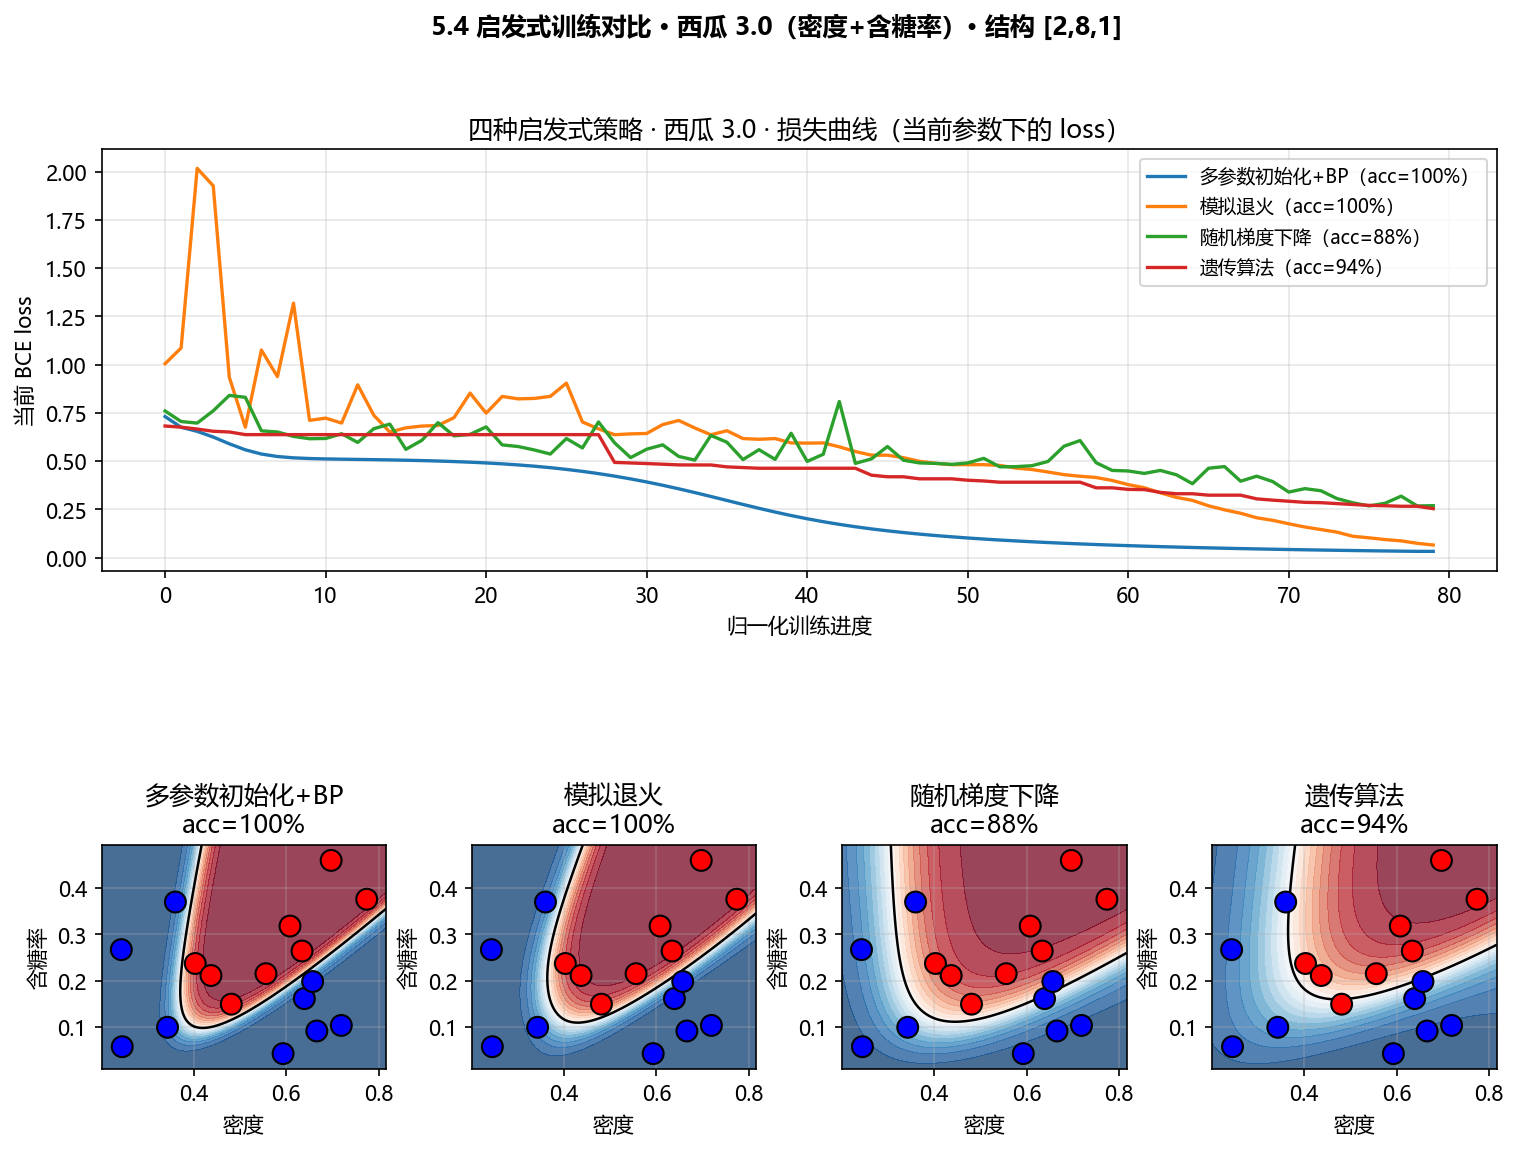
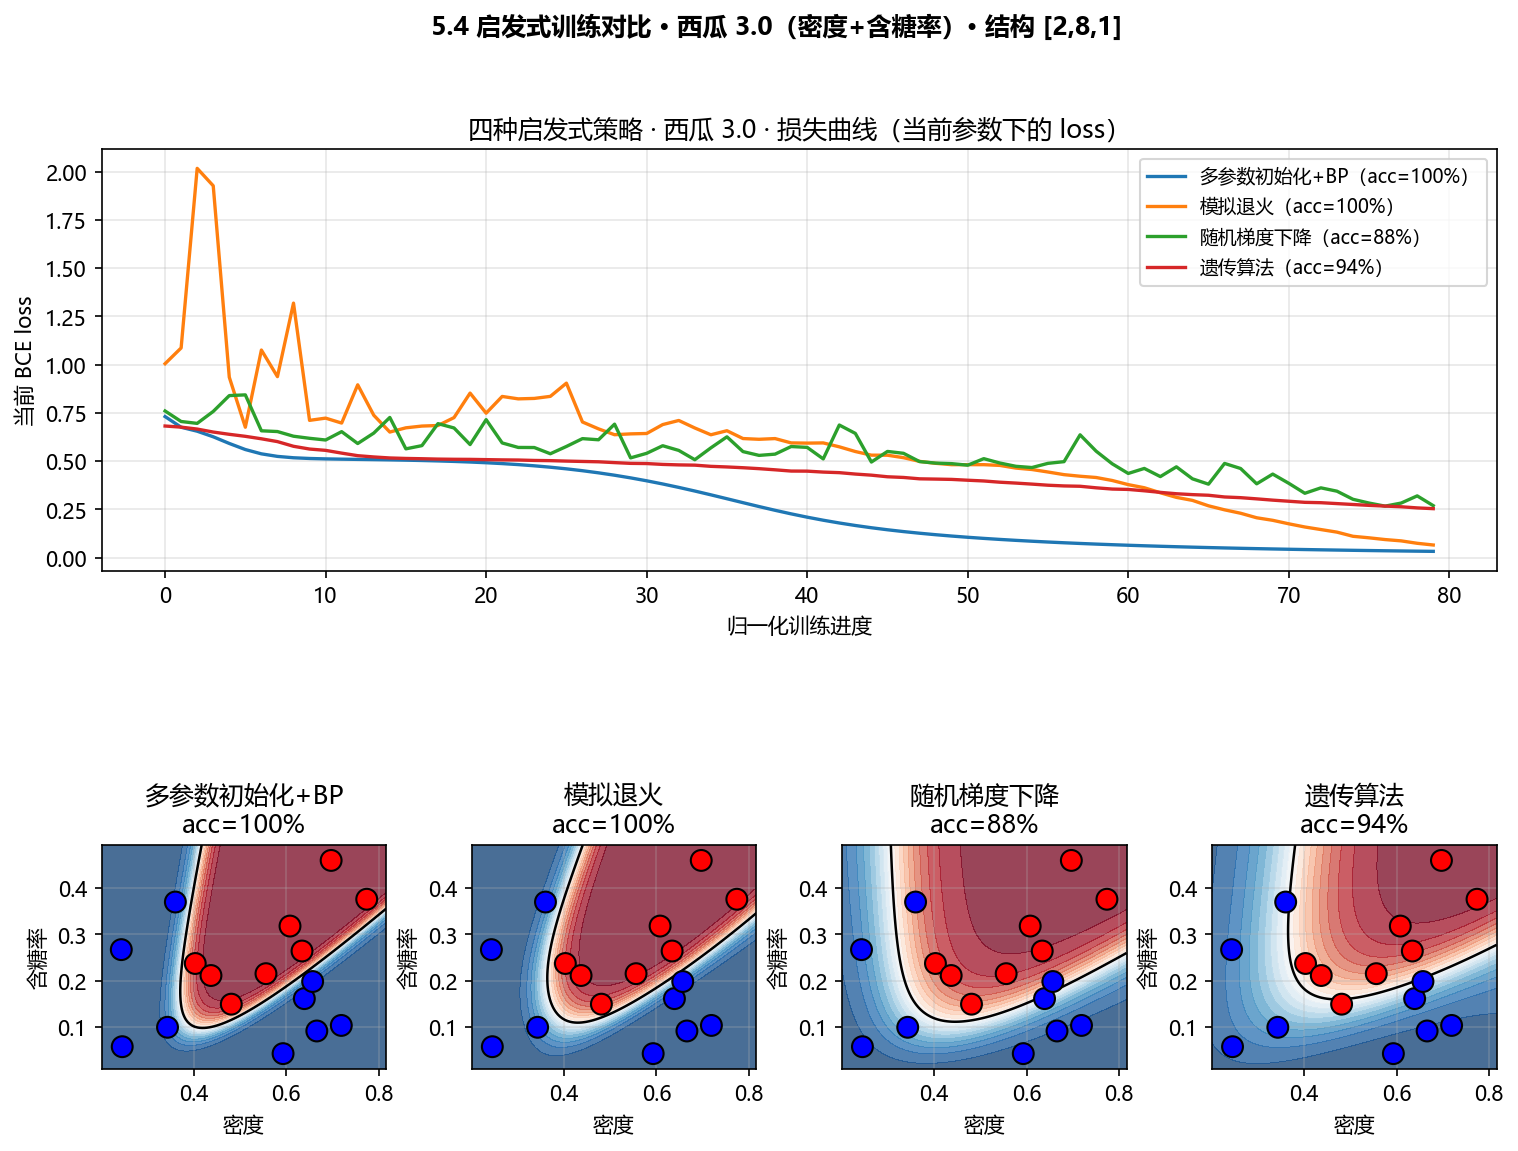
一些已有代码的改进

Changed region(s): [[0.1238, 0.3649, 0.8669, 0.4561], [0.8669, 0.4257, 0.9598, 0.4561]]

diff --git a/C5_Neural_Network/ch5_3.py b/C5_Neural_Network/ch5_3.py
@@ -185,7 +185,8 @@ class MLP:
       误差逆传播训练。
       batch_size=None 为全批量；设为 1 即在线 SGD（供 ch5_4 调用）。
       返回 (当前 loss 序列, 当前 acc 序列)，每步记录该时刻真实值。
-      momentum>0 时带动量更新，避免全批量大步长下当前 loss 先降后升。
+      momentum>0 时带动量更新（全批量与小批量分支均生效），
+      避免大步长下当前 loss 先降后升。
       """
       loss_history: List[float] = []
       acc_history: List[float] = []
@@ -199,7 +200,7 @@ class MLP:
           ]
 
       def maybe_log(epoch: int) -> None:
-          if epoch % log_every == 0 or epoch == epochs - 1:
+          if epoch % log_every == 0 or epoch == epochs:
               loss_history.append(self.loss_on(X, y))
               acc_history.append(self.accuracy(X, y))
 
@@ -207,21 +208,20 @@ class MLP:
       for epoch in range(epochs):
           if batch_size is None or batch_size >= n:
               grads = self.backward(X, y)
-              if momentum > 0 and velocity is not None:
-                  new_velocity: ParamPack = []
-                  for i, (W, b) in enumerate(self.params):
-                      dW, db = grads[i]
-                      vW, vb = velocity[i]
-                      vW = momentum * vW - lr * dW
-                      vb = momentum * vb - lr * db
-                      self.params[i] = (W + vW, b + vb)
-                      new_velocity.append((vW, vb))
-                  velocity = new_velocity
-              else:
-                  self.apply_grads(grads, lr)
           else:
               idx = rng.integers(0, n, size=batch_size)
               grads = self.backward(X[idx], y[idx])
+          if momentum > 0 and velocity is not None:
+              new_velocity: ParamPack = []
+              for i, (W, b) in enumerate(self.params):
+                  dW, db = grads[i]
+                  vW, vb = velocity[i]
+                  vW = momentum * vW - lr * dW
+                  vb = momentum * vb - lr * db
+                  self.params[i] = (W + vW, b + vb)
+                  new_velocity.append((vW, vb))
+              velocity = new_velocity
+          else:
               self.apply_grads(grads, lr)
           maybe_log(epoch + 1)
           if verbose_every and (epoch + 1) % verbose_every == 0:

diff --git a/C3_Linear_Regression/ch3_5.py b/C3_Linear_Regression/ch3_5.py
@@ -187,28 +187,33 @@ def plot_compare_results(X_a, y_a, y_ovr_a, y_ovo_a, X_b, y_b, y_ovr_b, y_ovo_b)
 
 
 
-# A) 原有数据
-X_a, y_a = generate_3class_data(n_per_class=80, seed=42, noise_std=0.30, outlier_ratio=0.15)
-classes_a = np.unique(y_a)
-ovr_a = train_ovr(X_a, y_a)
-y_ovr_a = predict_ovr(X_a, ovr_a)
-ovo_a = train_ovo(X_a, y_a)
-y_ovo_a = predict_ovo(X_a, ovo_a, classes_a)
-acc_ovr_a = np.mean(y_ovr_a == y_a)
-acc_ovo_a = np.mean(y_ovo_a == y_a)
+def main() -> None:
+    # A) 原有数据
+    X_a, y_a = generate_3class_data(n_per_class=80, seed=42, noise_std=0.30, outlier_ratio=0.15)
+    classes_a = np.unique(y_a)
+    ovr_a = train_ovr(X_a, y_a)
+    y_ovr_a = predict_ovr(X_a, ovr_a)
+    ovo_a = train_ovo(X_a, y_a)
+    y_ovo_a = predict_ovo(X_a, ovo_a, classes_a)
+    acc_ovr_a = np.mean(y_ovr_a == y_a)
+    acc_ovo_a = np.mean(y_ovo_a == y_a)
 
     # B) 非理想数据
-X_b, y_b = generate_3class_nonideal_data(n_per_class=80, seed=123)
-classes_b = np.unique(y_b)
-ovr_b = train_ovr(X_b, y_b)
-y_ovr_b = predict_ovr(X_b, ovr_b)
-ovo_b = train_ovo(X_b, y_b)
-y_ovo_b = predict_ovo(X_b, ovo_b, classes_b)
-acc_ovr_b = np.mean(y_ovr_b == y_b)
-acc_ovo_b = np.mean(y_ovo_b == y_b)
+    X_b, y_b = generate_3class_nonideal_data(n_per_class=80, seed=123)
+    classes_b = np.unique(y_b)
+    ovr_b = train_ovr(X_b, y_b)
+    y_ovr_b = predict_ovr(X_b, ovr_b)
+    ovo_b = train_ovo(X_b, y_b)
+    y_ovo_b = predict_ovo(X_b, ovo_b, classes_b)
+    acc_ovr_b = np.mean(y_ovr_b == y_b)
+    acc_ovo_b = np.mean(y_ovo_b == y_b)
 
-print("[原有数据] OvR train accuracy =", acc_ovr_a)
-print("[原有数据] OvO train accuracy =", acc_ovo_a)
-print("[非理想数据] OvR train accuracy =", acc_ovr_b)
-print("[非理想数据] OvO train accuracy =", acc_ovo_b)
-plot_compare_results(X_a, y_a, y_ovr_a, y_ovo_a, X_b, y_b, y_ovr_b, y_ovo_b)
+    print("[原有数据] OvR train accuracy =", acc_ovr_a)
+    print("[原有数据] OvO train accuracy =", acc_ovo_a)
+    print("[非理想数据] OvR train accuracy =", acc_ovr_b)
+    print("[非理想数据] OvO train accuracy =", acc_ovo_b)
+    plot_compare_results(X_a, y_a, y_ovr_a, y_ovo_a, X_b, y_b, y_ovr_b, y_ovo_b)
+
+
+if __name__ == "__main__":
+    main()

diff --git a/C5_Neural_Network/ch5_4.py b/C5_Neural_Network/ch5_4.py
@@ -214,8 +214,8 @@ def train_genetic(
             best_acc = gen_best_acc
             best_loss = gen_best_loss
             best_vec = gen_best_vec.copy()
-        loss_hist.append(best_loss)
-        acc_hist.append(best_acc)
+        loss_hist.append(gen_best_loss)
+        acc_hist.append(gen_best_acc)
 
         mut = mut_scale * (0.35 + 0.65 * (1.0 - g / max(generations, 1)))
         new_pop: List[Array] = [scored[i][2].copy() for i in range(elite)]

diff --git a/C4_Decision_Tree/ch4_1.py b/C4_Decision_Tree/ch4_1.py
@@ -1,5 +1,3 @@
-from __future__ import annotations
-
 """决策树基本算法（离散属性、无剪枝）：
 停止条件：
 1. 所有样本属于同一类别
@@ -12,6 +10,7 @@ from __future__ import annotations
 1. 预测新样本的类别
 划分属性由外部 callable 注入；本模块无输出
 """
+from __future__ import annotations
 
 from collections import Counter
 from typing import Any, Callable, Dict, List, Optional

diff --git a/C5_Neural_Network/ch5_2.py b/C5_Neural_Network/ch5_2.py
@@ -35,7 +35,8 @@ def sigmoid(z: np.ndarray) -> np.ndarray:
 
 
 def bce_loss(pred: np.ndarray, y: np.ndarray, eps: float = 1e-8) -> float:
-    pred = np.clip(pred, eps, 1.0 - eps)
+    pred = np.clip(np.asarray(pred).ravel(), eps, 1.0 - eps)
+    y = np.asarray(y).ravel()
     return float(-np.mean(y * np.log(pred) + (1.0 - y) * np.log(1.0 - pred)))
 
 

diff --git a/C3_Linear_Regression/ch3_3.py b/C3_Linear_Regression/ch3_3.py
@@ -31,7 +31,7 @@ n = len(X)
 
 # sigmoid函数
 def sigmoid(z):
-    return 1 / (1 + np.exp(-z))
+    return 1 / (1 + np.exp(-np.clip(z, -500, 500)))
 
 # 4. 训练
 for epoch in range(epochs):

diff --git a/README.md b/README.md
@@ -38,7 +38,7 @@ ML Basics/
 |---|---|---|
 | Ch3 | Linear Models | ✅ |
 | Ch4 | Decision Trees | ✅ |
-| Ch5 | Neural Networks | 🔄（已有 ch5_2） |
+| Ch5 | Neural Networks | ✅（ch5_2 / ch5_3 / ch5_4） |
 | Ch6 | Support Vector Machines | ⏳ |
 | Ch7 | Bayesian Learning | ⏳ |
 | Ch8 | Ensemble Learning | ⏳ |
@@ -116,8 +116,9 @@ The experiments show that LDA performs well under linear assumptions, but strugg
 Python 3.10+
 numpy
 matplotlib
-scikit-learn
 ```
+
+> 当前所有章节脚本仅依赖 `numpy` 与 `matplotlib`（见 `requirements.txt`），不依赖 scikit-learn。
 
 ---
 
